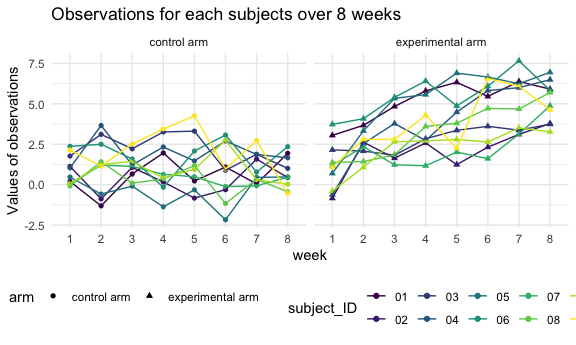
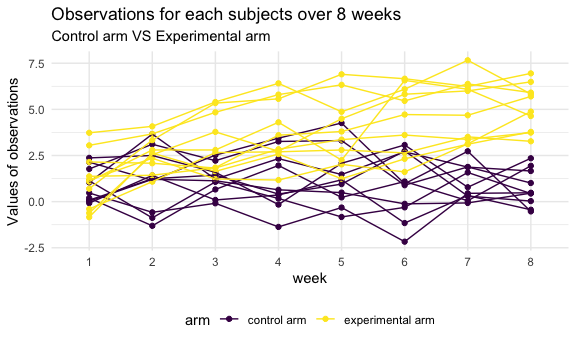
Problem 2 -- add some comments

diff --git a/p8105_hw5_cm4047.md b/p8105_hw5_cm4047.md
@@ -132,9 +132,8 @@ path_df =
         pivot_longer(
                 week_1:week_8,
                 names_to = "week",
-                values_to = "observations"
-        ) %>% 
-        mutate(week = recode(week, "week_1" = "1", "week_2" = "2", "week_3" = "3", "week_4" = "4", "week_5" = "5", "week_6" = "6", "week_7" = "7", "week_8" = "8"))
+                values_to = "observations",
+                names_prefix = "week_")
 ```
 
     ## Parsed with column specification:
@@ -362,6 +361,21 @@ Make a spaghetti plot showing observations on each subject over time.
 
 ``` r
 path_df %>% 
+        mutate(subject_ID = str_c(arm, subject_ID)) %>% 
+        ggplot(aes(x = week, y = observations, color = arm, group = subject_ID)) +
+        geom_point() +
+        geom_line() + 
+        labs(title = "Observations for each subjects over 8 weeks",
+             subtitle = "Control arm VS Experimental arm",
+             y = "Values of observations")
+```
+
+<img src="p8105_hw5_cm4047_files/figure-gfm/unnamed-chunk-8-1.png" width="90%" />
+I also create a plot which shows values of observations by different arm
+on each subject over time.
+
+``` r
+path_df %>% 
         ggplot(aes(x = week, y = observations, color = subject_ID, group = subject_ID)) +
         geom_point(aes(shape = arm)) +
         geom_line() + 
@@ -370,4 +384,9 @@ path_df %>%
              y = "Values of observations")
 ```
 
-<img src="p8105_hw5_cm4047_files/figure-gfm/unnamed-chunk-8-1.png" width="90%" />
+<img src="p8105_hw5_cm4047_files/figure-gfm/unnamed-chunk-9-1.png" width="90%" />
+From the plots above, we can see that the values of observations of the
+experimental group have an increasing trend while the values of
+observations of the control group fluctuated a lot. The average value of
+observations of the experimental group is larger than that of
+observations of the control group. \# Problem 3
